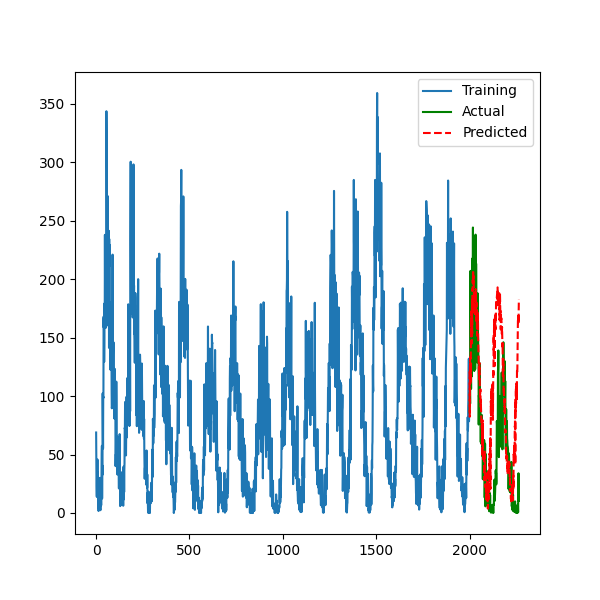
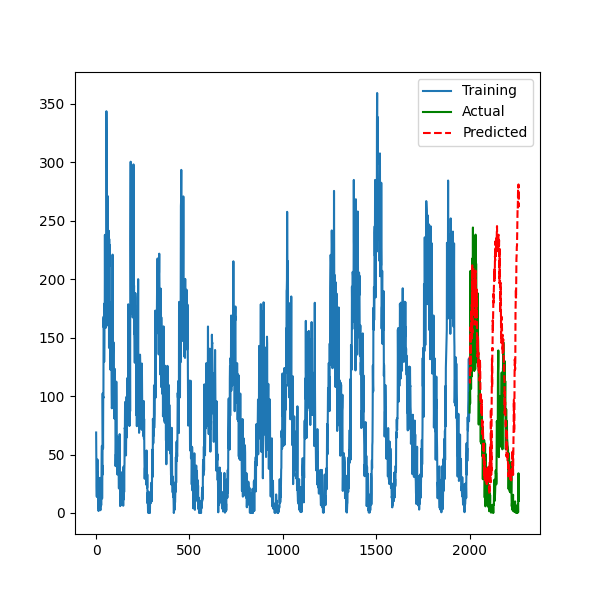
Finished Timeseries Transformer

Changed region(s): [[0.78, 0.3, 0.87, 0.84]]

diff --git a/timeseries_transformer/sine_example.py b/timeseries_transformer/sine_example.py
@@ -2,7 +2,8 @@
 import torch
 import numpy as np
 import matplotlib.pyplot as plt
-from forcasting_model import ForcastingModel
+from forecasting_model import ForecastingModel
+from torch.optim.lr_scheduler import ExponentialLR
 from torch.utils.data import TensorDataset, DataLoader
 
 # Get a noisy sin wave
@@ -18,15 +19,16 @@ Y = np.array([x[ii+seq_len] for ii in range(0, x.shape[0]-seq_len)]).reshape((-1
 
 
 # Training Loop
-device="cpu"
-EPOCHS = 100
-BATCH_SIZE = 2
-LEARNING_RATE = 2e-7
-model = ForcastingModel(seq_len, embed_size=16, nhead=2, device=device)
+device="cuda"
+EPOCHS = 30
+BATCH_SIZE = 1
+LEARNING_RATE = 2.2e-6
+model = ForecastingModel(seq_len, embed_size=8, nhead=2, dim_feedforward=1024, dropout=0, device=device)
 model.to(device)
 model.train()
 criterion = torch.nn.HuberLoss()
-optimizer = torch.optim.Adam(model.parameters(), lr=LEARNING_RATE)
+optimizer = torch.optim.AdamW(model.parameters(), lr=LEARNING_RATE)
+scheduler = ExponentialLR(optimizer, gamma=0.9)
 dataset = TensorDataset(torch.Tensor(X).to(device), torch.Tensor(Y).to(device))
 dataloader = DataLoader(dataset, batch_size=BATCH_SIZE)
 for epoch in range(EPOCHS):
@@ -36,10 +38,11 @@ for epoch in range(EPOCHS):
         loss = criterion(out, yy)
         loss.backward()
         optimizer.step()
+    scheduler.step()
     print(f"Epoch {epoch+1}/{EPOCHS}: Loss={loss}")
 
 
-# New Prediction Loop
+# Prediction Loop
 FORCAST = 1000
 model.eval()
 for ff in range(FORCAST):
@@ -56,3 +59,22 @@ plt.plot(range(x[:DATA_SIZE].shape[0], x.shape[0]), x[DATA_SIZE:DATA_SIZE+FORCAS
 plt.plot(range(x[:DATA_SIZE].shape[0], x.shape[0]), np.sin(np.linspace(10, 20, DATA_SIZE)), 'g-', label="Actual")
 plt.legend()
 fig.savefig("./img/sine_example.png")
+
+
+# Prediction Loop
+FORCAST_EXTENDED = 3000
+model.eval()
+for ff in range(FORCAST_EXTENDED):
+    xx = x[len(x)-seq_len:len(x)]
+    yy = model(torch.Tensor(xx).reshape(1, xx.shape[0], 1).to(device))
+    x = np.concatenate((x, yy.detach().cpu().numpy().reshape(1,)))
+
+
+# Plot Predictions
+import matplotlib.pyplot as plt
+fig = plt.figure(figsize=(12, 6))
+plt.plot(range(x[:DATA_SIZE].shape[0]), x[:DATA_SIZE], label="Training")
+plt.plot(range(x[:DATA_SIZE].shape[0], x.shape[0]), x[DATA_SIZE:DATA_SIZE+FORCAST+FORCAST_EXTENDED], 'r--', label="Predicted")
+plt.plot(range(x[:DATA_SIZE].shape[0], x.shape[0]), np.sin(np.linspace(10, 50, FORCAST+FORCAST_EXTENDED)), 'g-', label="Actual")
+plt.legend()
+fig.savefig("./img/sine_extended.png")

diff --git a/timeseries_transformer/sunspots_example.py b/timeseries_transformer/sunspots_example.py
@@ -3,8 +3,11 @@ import torch
 import numpy as np
 import pandas as pd
 import matplotlib.pyplot as plt
-from forcasting_model import ForcastingModel
+from forecasting_model import ForecastingModel
+from torch.optim.lr_scheduler import ExponentialLR
 from torch.utils.data import TensorDataset, DataLoader
+from sklearn.metrics import (mean_squared_error,
+                             mean_absolute_error)
 
 
 # Create a dataset
@@ -17,14 +20,15 @@ Y = np.array([x[ii+seq_len] for ii in range(0, x.shape[0]-seq_len)]).reshape((-1
 
 
 # Training Loop
-device = "cpu"
-EPOCHS = 80
-BATCH_SIZE = 2
-LEARNING_RATE = 2e-6
-model = ForcastingModel(seq_len, embed_size=8, nhead=2, device=device).to(device)
+device = "cuda"
+EPOCHS = 30
+BATCH_SIZE = 1
+LEARNING_RATE = 6.6e-6
+model = ForecastingModel(seq_len, embed_size=8, nhead=2, dim_feedforward=1024, dropout=0, device=device).to(device)
 model.train()
 criterion = torch.nn.HuberLoss()
-optimizer = torch.optim.Adam(model.parameters(), lr=LEARNING_RATE)
+optimizer = torch.optim.AdamW(model.parameters(), lr=LEARNING_RATE)
+scheduler = ExponentialLR(optimizer, gamma=0.9)
 dataset = TensorDataset(torch.Tensor(X).to(device), torch.Tensor(Y).to(device))
 dataloader = DataLoader(dataset, batch_size=BATCH_SIZE)
 for epoch in range(EPOCHS):
@@ -34,6 +38,7 @@ for epoch in range(EPOCHS):
         loss = criterion(out, yy)
         loss.backward()
         optimizer.step()
+    scheduler.step()
     print(f"Epoch {epoch+1}/{EPOCHS}: Loss={loss}")
 
 
@@ -55,18 +60,6 @@ plt.legend()
 fig.savefig("./img/sunspots_example.png")
 
 
-# # Export Metrics
-# from sklearn.metrics import (
-#     accuracy_score,
-#     precision_score,
-#     recall_score,
-#     f1_score,
-#     roc_auc_score
-# )
-# pd.DataFrame({
-#     "Accuracy": accuracy_score(x[2000:], forcast),
-#     "Precision": precision_score(x[2000:], forcast),
-#     "Recall": recall_score(x[2000:], forcast),
-#     "F1 Score": f1_score(x[2000:], forcast),
-#     "ROC-AUC": roc_auc_score(x[2000:], forcast)
-# }).to_csv("sunspot_metrics.csv")
+# Export Metrics
+print(f"MSE: {mean_squared_error(x[2000:], forcast)}")
+print(f"MAE: {mean_absolute_error(x[2000:], forcast)}")

diff --git a/timeseries_transformer/forecasting_model.py b/timeseries_transformer/forecasting_model.py
@@ -21,15 +21,15 @@ class PositionalEncoding(nn.Module):
         return self.dropout(x)
 
 # A forcasting model
-class ForcastingModel(torch.nn.Module):
+class ForecastingModel(torch.nn.Module):
     def __init__(self, 
                  seq_len=200,
                  embed_size = 16,
                  nhead = 4,
-                 dim_feedforward = 64,
+                 dim_feedforward = 2048,
                  dropout = 0.1,
                  device = "cuda"):
-        super(ForcastingModel, self).__init__()
+        super(ForecastingModel, self).__init__()
         self.device = device
         self.seq_len = seq_len
         self.embed_size = embed_size
@@ -48,7 +48,9 @@ class ForcastingModel(torch.nn.Module):
         self.linear1 = nn.Linear(seq_len*embed_size, int(dim_feedforward))
         self.linear2 = nn.Linear(int(dim_feedforward), int(dim_feedforward/2))
         self.linear3 = nn.Linear(int(dim_feedforward/2), int(dim_feedforward/4))
-        self.outlayer = nn.Linear(int(dim_feedforward/4), 1)
+        self.linear4 = nn.Linear(int(dim_feedforward/4), int(dim_feedforward/16))
+        self.linear5 = nn.Linear(int(dim_feedforward/16), int(dim_feedforward/64))
+        self.outlayer = nn.Linear(int(dim_feedforward/64), 1)
     def forward(self, x):
         src_mask = self._generate_square_subsequent_mask()
         src_mask.to(self.device)
@@ -62,6 +64,12 @@ class ForcastingModel(torch.nn.Module):
         x = self.relu(x)
         x = self.dropout(x)
         x = self.linear3(x)
+        x = self.relu(x)
+        x = self.dropout(x)
+        x = self.linear4(x)
+        x = self.relu(x)
+        x = self.dropout(x)
+        x = self.linear5(x)
         x = self.relu(x)
         return self.outlayer(x)
     def _generate_square_subsequent_mask(self):

diff --git a/timeseries_attention/sunspots_example.py b/timeseries_attention/sunspots_example.py
@@ -3,9 +3,10 @@ import torch
 import numpy as np
 import pandas as pd
 import matplotlib.pyplot as plt
-from forcasting_model import ForcastingModel
+from forecasting_model import ForecastingModel
 from torch.utils.data import TensorDataset, DataLoader
-
+from sklearn.metrics import (mean_squared_error,
+                             mean_absolute_error)
 
 # Create a dataset
 seq_len = 200
@@ -20,7 +21,7 @@ Y = np.array([x[ii+seq_len] for ii in range(0, x.shape[0]-seq_len)])
 EPOCHS = 100
 BATCH_SIZE = 16
 LEARNING_RATE = 4.12e-6
-model = ForcastingModel(seq_len).to("cuda")
+model = ForecastingModel(seq_len).to("cuda")
 model.train()
 criterion = torch.nn.MSELoss()
 optimizer = torch.optim.Adam(model.parameters(), lr=LEARNING_RATE)
@@ -55,17 +56,5 @@ fig.savefig("./img/sunspots_example.png")
 
 
 # Export Metrics
-from sklearn.metrics import (
-    accuracy_score,
-    precision_score,
-    recall_score,
-    f1_score,
-    roc_auc_score
-)
-pd.DataFrame({
-    "Accuracy": accuracy_score(x[2000:], forcast),
-    "Precision": precision_score(x[2000:], forcast),
-    "Recall": recall_score(x[2000:], forcast),
-    "F1 Score": f1_score(x[2000:], forcast),
-    "ROC-AUC": roc_auc_score(x[2000:], forcast)
-}).to_csv("sunspot_metrics.csv")
+print(f"MSE: {mean_squared_error(x[2000:], forcast)}")
+print(f"MAE: {mean_absolute_error(x[2000:], forcast)}")

diff --git a/timeseries_attention/sine_example.py b/timeseries_attention/sine_example.py
@@ -2,7 +2,7 @@
 import torch
 import numpy as np
 import matplotlib.pyplot as plt
-from forcasting_model import ForcastingModel
+from forecasting_model import ForecastingModel
 from torch.utils.data import TensorDataset, DataLoader
 
 # Get a noisy sin wave
@@ -21,7 +21,7 @@ Y = np.array([x[ii+seq_len] for ii in range(0, x.shape[0]-seq_len)])
 EPOCHS = 20
 BATCH_SIZE = 8
 LEARNING_RATE = 4.12e-5
-model = ForcastingModel(seq_len)
+model = ForecastingModel(seq_len)
 model.train()
 criterion = torch.nn.MSELoss()
 optimizer = torch.optim.Adam(model.parameters(), lr=LEARNING_RATE)

diff --git a/timeseries_attention/complex_trig_example.py b/timeseries_attention/complex_trig_example.py
@@ -2,7 +2,7 @@
 import torch
 import numpy as np
 import matplotlib.pyplot as plt
-from forcasting_model import ForcastingModel
+from forecasting_model import ForecastingModel
 from torch.utils.data import TensorDataset, DataLoader
 
 
@@ -26,7 +26,7 @@ Y = np.array([x[ii+seq_len] for ii in range(0, x.shape[0]-seq_len)])
 EPOCHS = 10
 BATCH_SIZE = 2
 LEARNING_RATE = 1e-6
-model = ForcastingModel(seq_len).to("cuda")
+model = ForecastingModel(seq_len).to("cuda")
 model.train()
 criterion = torch.nn.MSELoss()
 optimizer = torch.optim.Adam(model.parameters(), lr=LEARNING_RATE)

diff --git a/timeseries_attention/forecasting_model.py b/timeseries_attention/forecasting_model.py
@@ -27,9 +27,9 @@ class Attention(torch.nn.Module):
 
 
 # A forcasting model
-class ForcastingModel(torch.nn.Module):
+class ForecastingModel(torch.nn.Module):
     def __init__(self, seq_len=200, ffdim=64):
-        super(ForcastingModel, self).__init__()
+        super(ForecastingModel, self).__init__()
         self.relu = nn.ReLU()
         self.attention = Attention(seq_len)
         self.linear1 = nn.Linear(seq_len, int(ffdim))

diff --git a/readme.md b/readme.md
@@ -1,7 +1,7 @@
 ## PyTorch Examples  
  - *DiffEq*: Experimentation with Autograd for Differential Equations  
  - *Timeseries Attention*: Application of Basic Transformer Attention to Timeseries Forcasting  
- - *Timeseries Transformer*: Application of Basic Transformer Encoder to Timeseries Forcasting  
+ - *Timeseries Transformer*: Application of Basic Transformer Encoder Layer to Timeseries Forcasting  
 
 ### Notes:
  - Examples are not currently packaged, cd into a subfolder to run scripts
